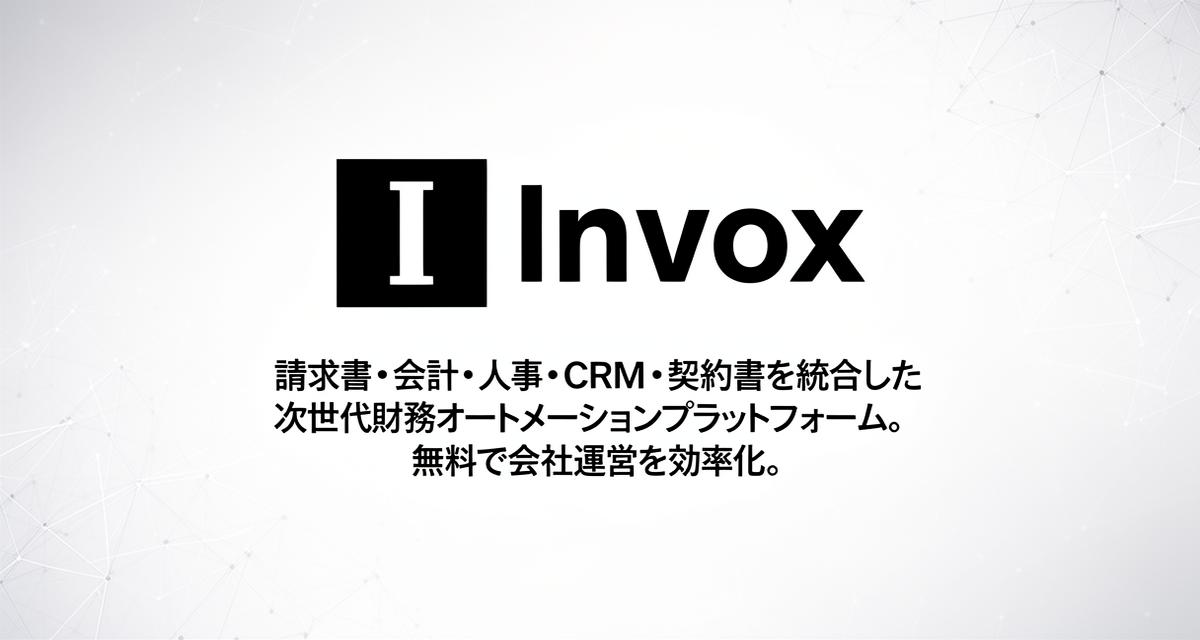
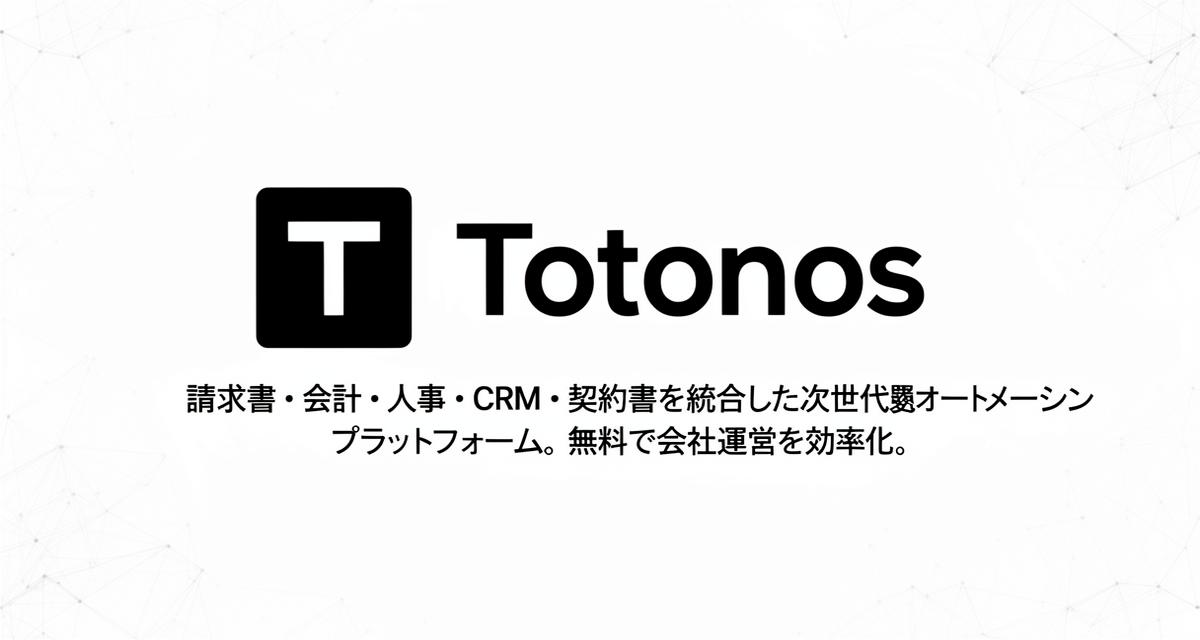
Changes

diff --git a/src/pages/Landing.tsx b/src/pages/Landing.tsx
@@ -94,7 +94,7 @@ const comparisonCategories = {
   invoice: {
     label: "請求・経理",
     competitors: [
-      { name: "Invox", sub: "" },
+      { name: "Totonos", sub: "" },
       { name: "バクラク", sub: "LayerX" },
       { name: "Bill One", sub: "Sansan" },
       { name: "freee", sub: "請求書" },
@@ -113,7 +113,7 @@ const comparisonCategories = {
   finance: {
     label: "資金調達",
     competitors: [
-      { name: "Invox", sub: "" },
+      { name: "Totonos", sub: "" },
       { name: "OLTA", sub: "ファクタリング" },
       { name: "GMO早払い", sub: "" },
       { name: "ラボル", sub: "" },
@@ -131,7 +131,7 @@ const comparisonCategories = {
   accounting: {
     label: "会計",
     competitors: [
-      { name: "Invox", sub: "" },
+      { name: "Totonos", sub: "" },
       { name: "freee会計", sub: "" },
       { name: "MF会計", sub: "" },
       { name: "弥生会計", sub: "" },
@@ -149,7 +149,7 @@ const comparisonCategories = {
   hr: {
     label: "人事・労務",
     competitors: [
-      { name: "Invox", sub: "" },
+      { name: "Totonos", sub: "" },
       { name: "SmartHR", sub: "" },
       { name: "freee人事労務", sub: "" },
       { name: "KING OF TIME", sub: "" },
@@ -167,7 +167,7 @@ const comparisonCategories = {
   crm: {
     label: "CRM・営業",
     competitors: [
-      { name: "Invox", sub: "" },
+      { name: "Totonos", sub: "" },
       { name: "Salesforce", sub: "" },
       { name: "HubSpot", sub: "" },
       { name: "kintone", sub: "" },
@@ -185,7 +185,7 @@ const comparisonCategories = {
   legal: {
     label: "法務・契約",
     competitors: [
-      { name: "Invox", sub: "" },
+      { name: "Totonos", sub: "" },
       { name: "クラウドサイン", sub: "" },
       { name: "GMOサイン", sub: "" },
       { name: "DocuSign", sub: "" },
@@ -203,7 +203,7 @@ const comparisonCategories = {
   info: {
     label: "情報管理",
     competitors: [
-      { name: "Invox", sub: "" },
+      { name: "Totonos", sub: "" },
       { name: "Notion", sub: "" },
       { name: "Confluence", sub: "" },
       { name: "Asana", sub: "" },
@@ -245,9 +245,9 @@ export default function Landing() {
         <div className="container mx-auto px-4 py-4 flex items-center justify-between">
           <div className="flex items-center gap-2">
             <div className="flex h-10 w-10 items-center justify-center border-2 border-foreground bg-foreground text-background text-xl font-bold">
-              I
+              T
             </div>
-            <span className="text-2xl font-bold tracking-tight">Invox</span>
+            <span className="text-2xl font-bold tracking-tight">Totonos</span>
           </div>
           <div className="flex items-center gap-4">
             <Link to="/auth">
@@ -333,7 +333,7 @@ export default function Landing() {
             </div>
             <div className="text-5xl font-bold">→</div>
             <div>
-              <p className="text-lg opacity-80">Invoxなら</p>
+              <p className="text-lg opacity-80">Totonosなら</p>
               <p className="text-5xl font-bold text-chart-2">0円</p>
             </div>
           </div>
@@ -345,7 +345,7 @@ export default function Landing() {
         <div className="container mx-auto px-4">
           <div className="max-w-4xl mx-auto">
             <h2 className="text-3xl font-bold text-center mb-12">
-              Invoxで実現できること
+              Totonosで実現できること
             </h2>
             <div className="grid md:grid-cols-2 lg:grid-cols-3 gap-4">
               {benefits.map((benefit) => (
@@ -369,7 +369,7 @@ export default function Landing() {
             カテゴリ別 競合比較
           </h2>
           <p className="text-muted-foreground text-center mb-12 max-w-2xl mx-auto">
-            各カテゴリで業界トップのサービスと比較。Invoxはすべての機能を無料で提供します。
+            各カテゴリで業界トップのサービスと比較。Totonosはすべての機能を無料で提供します。
           </p>
 
           <Tabs value={activeTab} onValueChange={(v) => setActiveTab(v as CategoryKey)} className="w-full">
@@ -469,7 +469,7 @@ export default function Landing() {
       {/* Footer */}
       <footer className="border-t-2 border-foreground py-8">
         <div className="container mx-auto px-4 text-center text-muted-foreground">
-          <p>© 2026 Invox. All rights reserved.</p>
+          <p>© 2026 Totonos. All rights reserved.</p>
         </div>
       </footer>
     </div>

diff --git a/index.html b/index.html
@@ -3,25 +3,25 @@
   <head>
     <meta charset="UTF-8" />
     <meta name="viewport" content="width=device-width, initial-scale=1.0, maximum-scale=5.0" />
-    <title>Invox - 次世代財務オートメーションプラットフォーム</title>
-    <meta name="description" content="Invox - 請求書・会計・人事・CRM・契約書を統合した次世代財務オートメーションプラットフォーム。完全無料で会社運営を効率化。" />
-    <meta name="author" content="Invox" />
+    <title>Totonos - 次世代財務オートメーションプラットフォーム</title>
+    <meta name="description" content="Totonos - 請求書・会計・人事・CRM・契約書を統合した次世代財務オートメーションプラットフォーム。無料で会社運営を効率化。" />
+    <meta name="author" content="Totonos" />
     <meta name="theme-color" content="#000000" />
     <link rel="icon" type="image/svg+xml" href="/favicon.svg" />
     <link rel="apple-touch-icon" href="/apple-touch-icon.png" />
 
     <!-- Open Graph -->
-    <meta property="og:title" content="Invox - 次世代財務オートメーションプラットフォーム" />
-    <meta property="og:description" content="請求書・会計・人事・CRM・契約書を統合した次世代財務オートメーションプラットフォーム。完全無料で会社運営を効率化。" />
+    <meta property="og:title" content="Totonos - 次世代財務オートメーションプラットフォーム" />
+    <meta property="og:description" content="請求書・会計・人事・CRM・契約書を統合した次世代財務オートメーションプラットフォーム。無料で会社運営を効率化。" />
     <meta property="og:type" content="website" />
-    <meta property="og:url" content="https://invox.app" />
+    <meta property="og:url" content="https://totonos.app" />
     <meta property="og:image" content="/og-image.png" />
     <meta property="og:locale" content="ja_JP" />
 
     <!-- Twitter -->
     <meta name="twitter:card" content="summary_large_image" />
-    <meta name="twitter:title" content="Invox - 次世代財務オートメーションプラットフォーム" />
-    <meta name="twitter:description" content="請求書・会計・人事・CRM・契約書を統合した次世代財務オートメーションプラットフォーム。完全無料で会社運営を効率化。" />
+    <meta name="twitter:title" content="Totonos - 次世代財務オートメーションプラットフォーム" />
+    <meta name="twitter:description" content="請求書・会計・人事・CRM・契約書を統合した次世代財務オートメーションプラットフォーム。無料で会社運営を効率化。" />
     <meta name="twitter:image" content="/og-image.png" />
 
     <!-- PWA -->

diff --git a/src/test/pages/Landing.test.tsx b/src/test/pages/Landing.test.tsx
@@ -9,11 +9,11 @@ describe("Landing Page", () => {
     expect(screen.getByText("1つに統合")).toBeInTheDocument();
   });
 
-  it("renders the Invox logo", () => {
+  it("renders the Totonos logo", () => {
     render(<Landing />);
-    // There are multiple "Invox" texts, so use getAllByText
-    const invoxElements = screen.getAllByText("Invox");
-    expect(invoxElements.length).toBeGreaterThan(0);
+    // There are multiple "Totonos" texts, so use getAllByText
+    const totonosElements = screen.getAllByText("Totonos");
+    expect(totonosElements.length).toBeGreaterThan(0);
   });
 
   it("renders login and signup buttons", () => {
@@ -63,7 +63,7 @@ describe("Landing Page", () => {
 
   it("renders the footer", () => {
     render(<Landing />);
-    expect(screen.getByText("© 2026 Invox. All rights reserved.")).toBeInTheDocument();
+    expect(screen.getByText("© 2026 Totonos. All rights reserved.")).toBeInTheDocument();
   });
 
   it("renders CTA section", () => {

diff --git a/src/pages/Auth.tsx b/src/pages/Auth.tsx
@@ -128,10 +128,10 @@ export default function Auth() {
         <CardHeader className="text-center">
           <div className="flex justify-center mb-4">
             <div className="flex h-12 w-12 items-center justify-center border-2 border-foreground bg-foreground text-background text-2xl font-bold">
-              I
+              T
             </div>
           </div>
-          <CardTitle className="text-2xl font-bold">Invox</CardTitle>
+          <CardTitle className="text-2xl font-bold">Totonos</CardTitle>
           <CardDescription>
             メールアドレスを入力してログイン・登録
           </CardDescription>

diff --git a/src/components/layout/AppSidebar.tsx b/src/components/layout/AppSidebar.tsx
@@ -141,10 +141,10 @@ export function AppSidebar() {
         <div className="flex items-center justify-between">
           <div className="flex items-center gap-2">
             <div className="flex h-8 w-8 items-center justify-center border-2 border-foreground bg-foreground text-background font-bold">
-              I
+              T
             </div>
             {!collapsed && (
-              <span className="text-xl font-bold tracking-tight">Invox</span>
+              <span className="text-xl font-bold tracking-tight">Totonos</span>
             )}
           </div>
           {!collapsed && <ThemeToggle />}

diff --git a/src/pages/ContractSign.tsx b/src/pages/ContractSign.tsx
@@ -155,9 +155,9 @@ export default function ContractSign() {
       <div className="container max-w-3xl mx-auto py-8 px-4">
         <div className="flex items-center justify-center gap-2 mb-8">
           <div className="flex h-8 w-8 items-center justify-center border-2 border-foreground bg-foreground text-background font-bold">
-            I
+            T
           </div>
-          <span className="text-xl font-bold tracking-tight">Invox</span>
+          <span className="text-xl font-bold tracking-tight">Totonos</span>
         </div>
 
         {step === "loading" && (

diff --git a/src/test/pages/Auth.test.tsx b/src/test/pages/Auth.test.tsx
@@ -46,10 +46,10 @@ describe("Auth Page", () => {
     mockSupabase = createMockSupabase();
   });
 
-  it("renders the login form with Invox branding", async () => {
+  it("renders the login form with Totonos branding", async () => {
     renderAuth();
     await waitFor(() => {
-      expect(screen.getByText("Invox")).toBeInTheDocument();
+      expect(screen.getByText("Totonos")).toBeInTheDocument();
     });
     expect(screen.getByText("メールアドレスを入力してログイン・登録")).toBeInTheDocument();
   });

diff --git a/src/types/contract.ts b/src/types/contract.ts
@@ -1,4 +1,4 @@
-// Contract types for Invox
+// Contract types for Totonos
 export type ContractStatus = 'draft' | 'sent' | 'pending_signature' | 'partially_signed' | 'signed' | 'expired' | 'cancelled';
 export type SignatoryType = 'issuer' | 'recipient';
 export type SignatureMethod = 'email_otp' | 'wallet';

diff --git a/src/types/database.ts b/src/types/database.ts
@@ -1,4 +1,4 @@
-// Database types for Invox
+// Database types for Totonos
 export type InvoiceStatus = 'draft' | 'sent' | 'pending' | 'paid' | 'overdue' | 'cancelled';
 export type BoostStatus = 'pending' | 'approved' | 'completed' | 'rejected';
 export type TrustRank = 'S' | 'A' | 'B' | 'C' | 'D';

diff --git a/src/types/accounting.ts b/src/types/accounting.ts
@@ -1,4 +1,4 @@
-// Accounting types for Invox
+// Accounting types for Totonos
 
 export type AccountType = 'asset' | 'liability' | 'equity' | 'revenue' | 'expense';
 export type JournalSourceType = 'manual' | 'invoice' | 'payment' | 'expense' | 'depreciation' | 'purchase_order';
